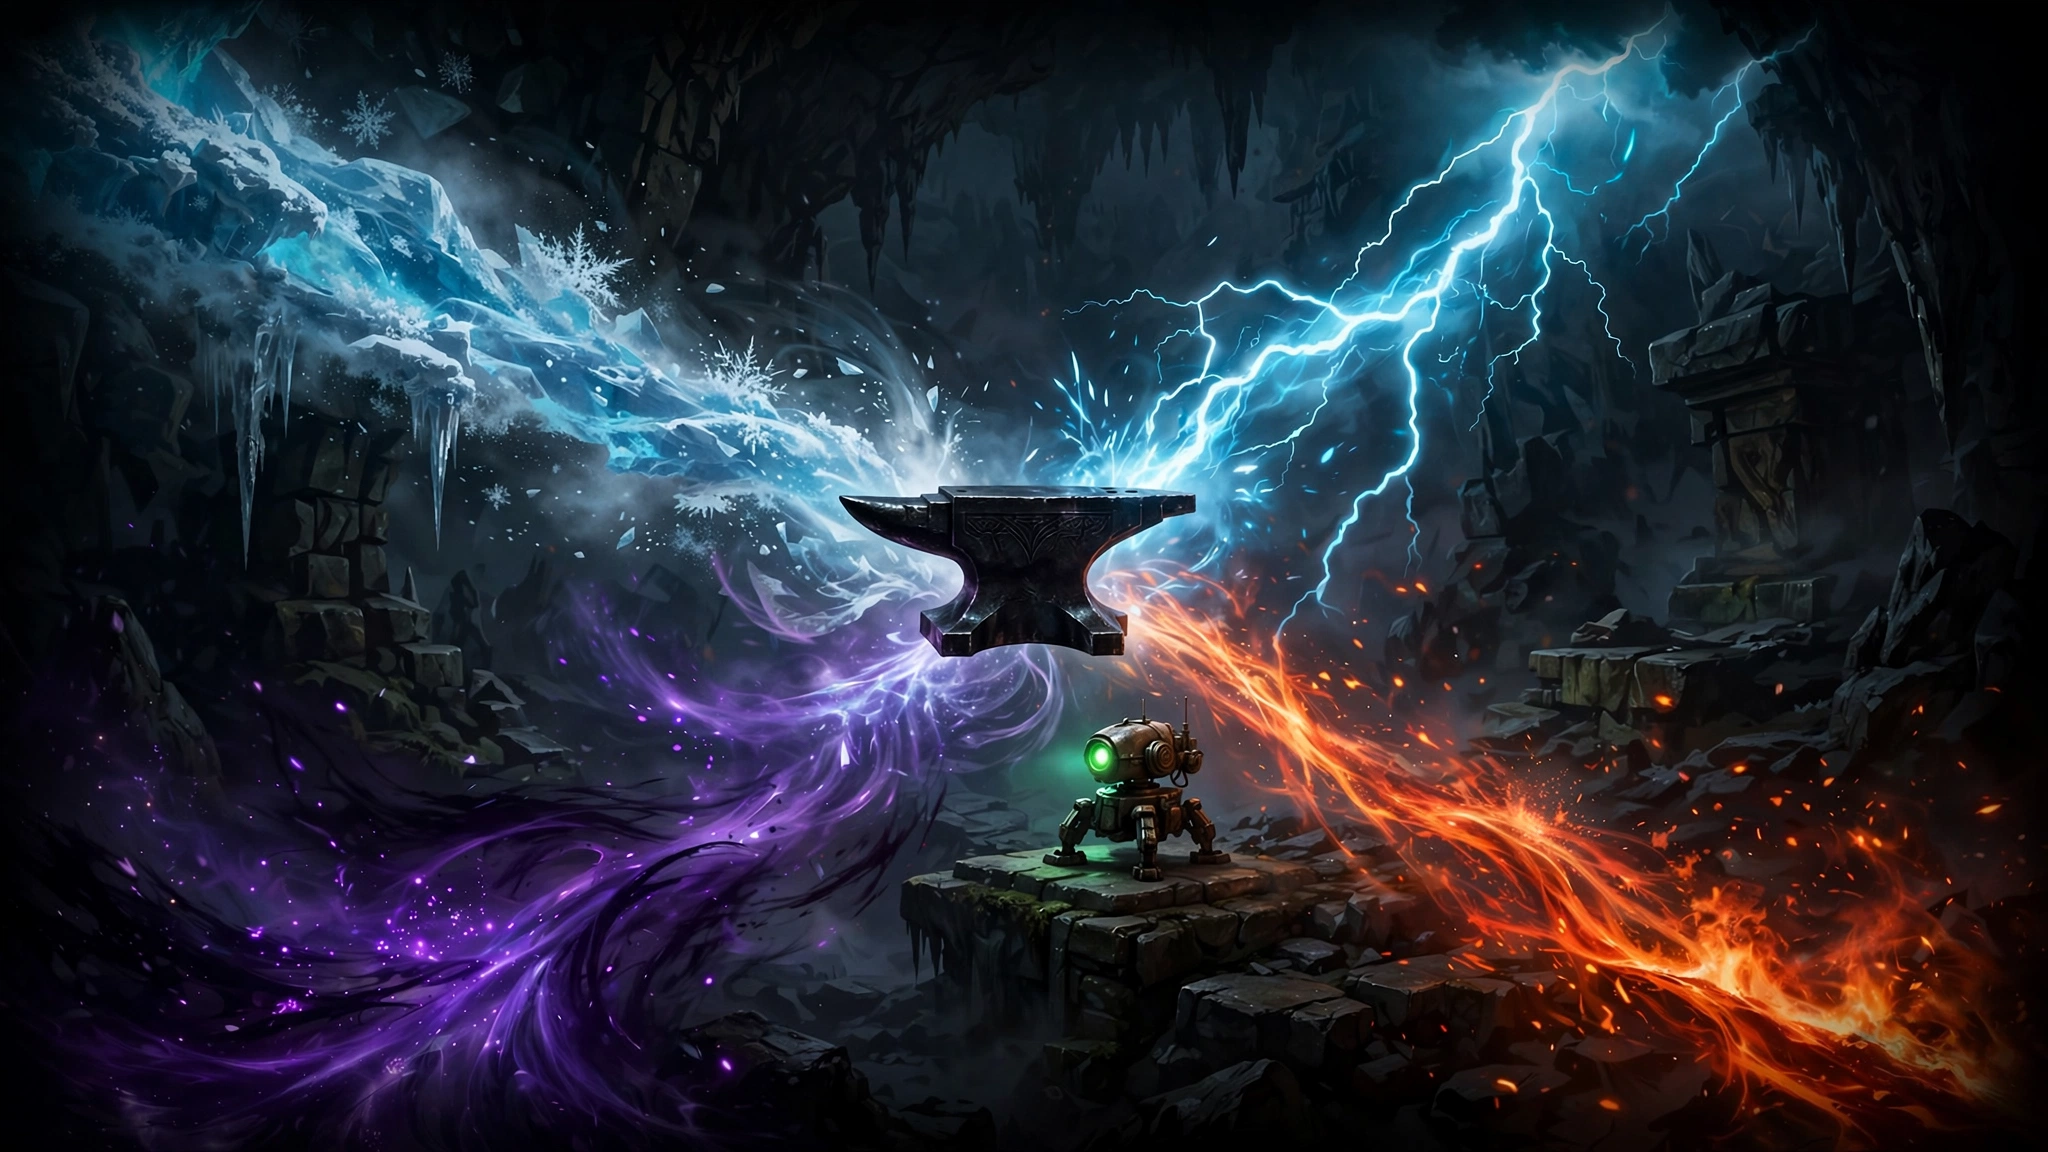
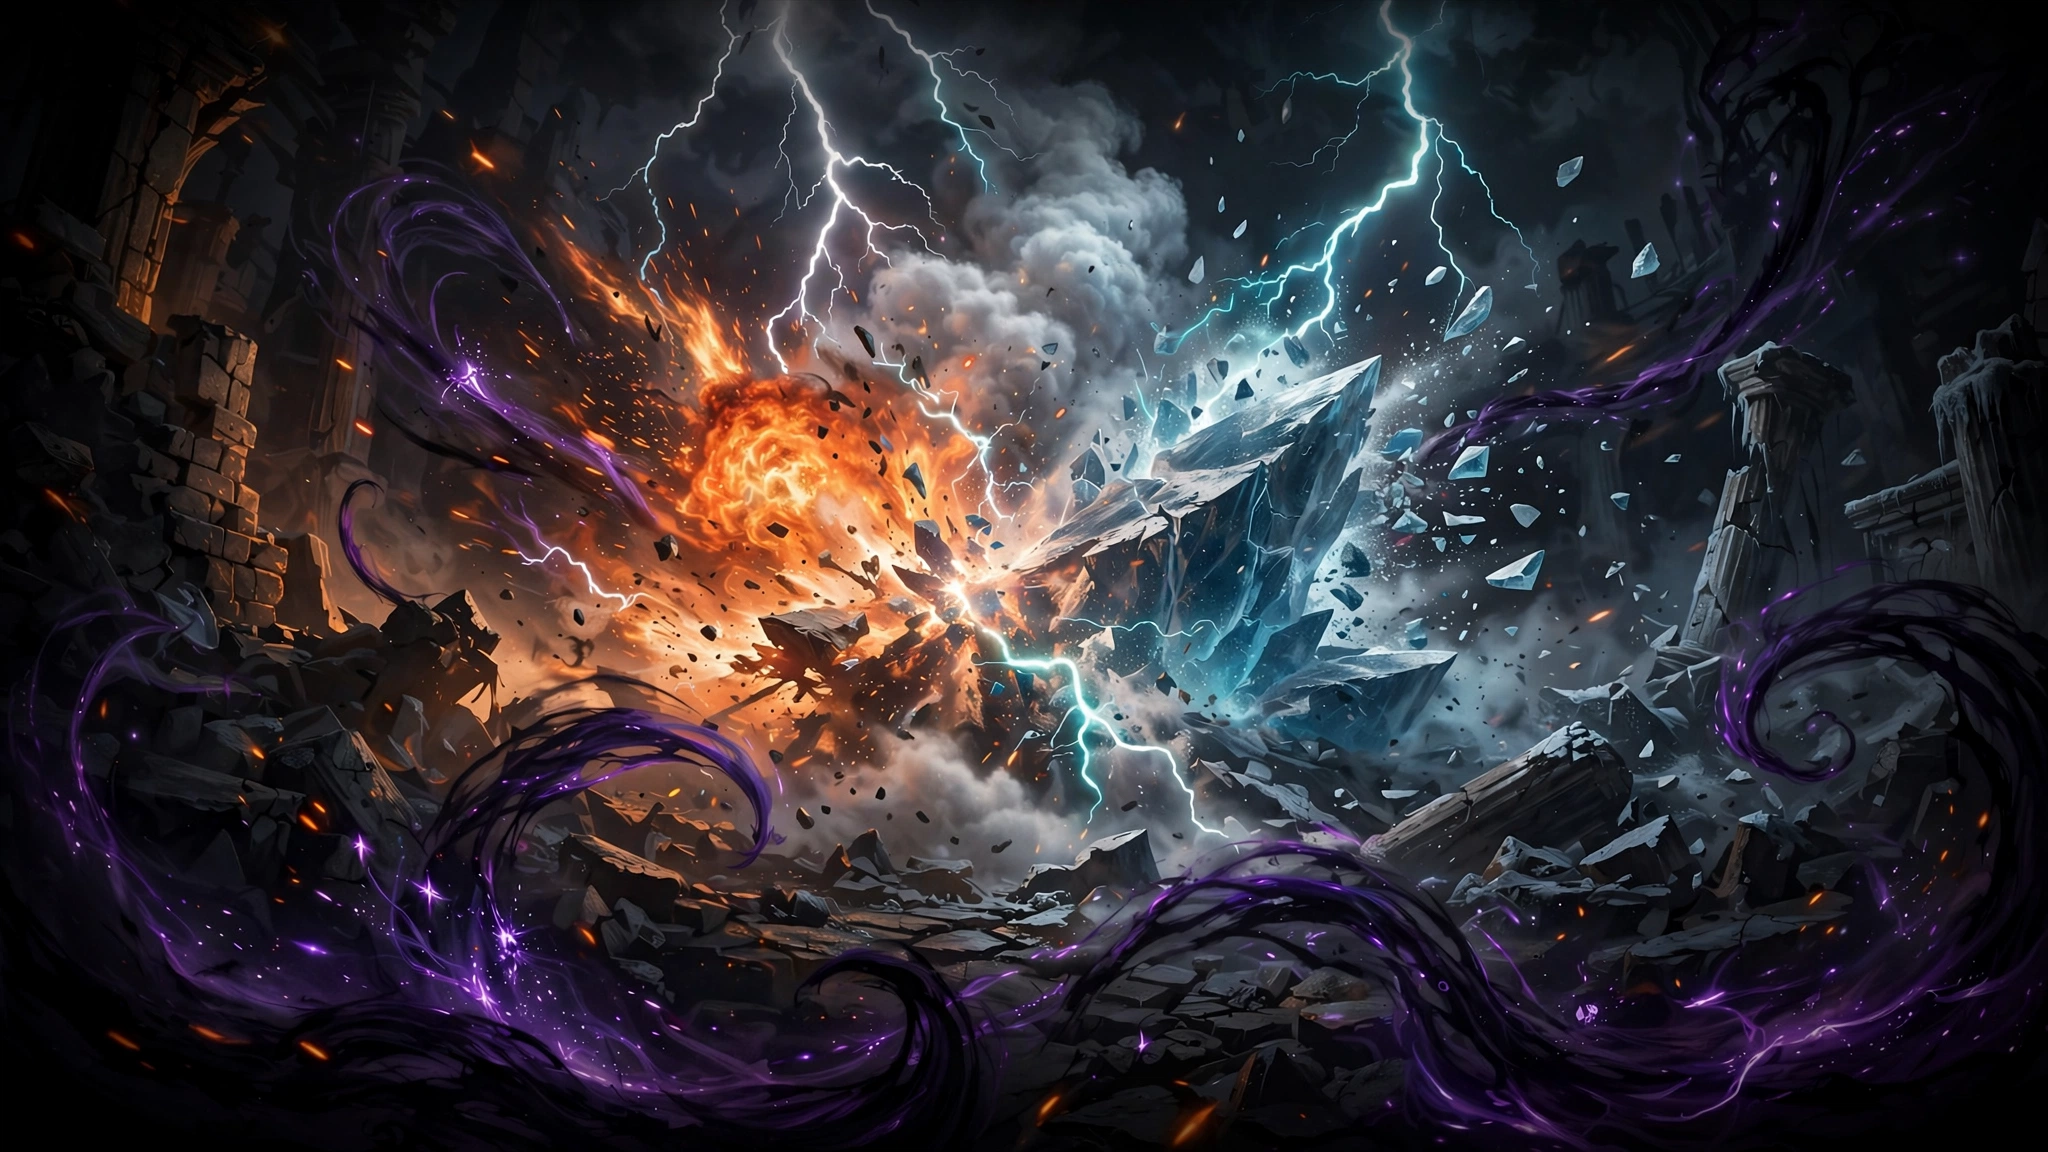
v0.9: elemental reactions, Engineer class
- Elemental reactions: Detonate (shock on burn, AoE), Melt (ice on burn, burst),
  Shatter (shock on slow, bonus + stun), Hex Spread (dark on afflicted, jumps to 2)
- Engineer class (unlock: Turret Master): free Sentry Turret, +50% turret dmg/uptime
- New achievement: Turret Master (25 turret kills in one run)
- Engineer sprite sheets, fresh elemental-cataclysm menu art

diff --git a/js/systems.js b/js/systems.js
@@ -175,11 +175,18 @@ function applyClassToPlayer(player, classData, weaponId){
   // v0.8.3: second wind + turret reset each run
   player.downed = false; player.downT = 0; player.secondWindUsed = false;
   player.turretCharges = 0; player.turretMax = 0;
+  player.turretDmgMult = 1; player.turretTimeMult = 1;
   player.items = [];
   player.damageMult = 1;
   player.dead = false;
   const baseW = weapons.find(w=>w.id===(weaponId || classData.weapon)) || weapons.find(w=>w.id===classData.weapon) || weapons[0];
   player.ownedWeapons = [createWeaponInstance(baseW, 'common')];
+  // v0.9 Engineer: starts with a Sentry Turret; turrets hit +50% harder and last +50% longer
+  if(classData.id === 'engineer'){
+    player.turretDmgMult = 1.5;
+    player.turretTimeMult = 1.5;
+    addItemToPlayer(player, items.find(it=>it.id==='sentry'), 'common');
+  }
   player.level = 1;
   player.xp = 0;
   player.xpNext = 60;
@@ -726,13 +733,14 @@ function turretDamageFor(p){
   const owned = (p.ownedWeapons || []).filter(Boolean);
   if(!owned.length) return 8;
   const avg = owned.reduce((s,w)=>s + (w.damage || 8), 0) / owned.length;
-  return Math.max(4, Math.round(avg * 0.6 * (p.damageMult || 1)));
+  return Math.max(4, Math.round(avg * 0.6 * (p.damageMult || 1) * (p.turretDmgMult || 1)));
 }
 function deployTurret(p){
   if(!p || p.dead || p.downed) return false;
   if((p.turretCharges || 0) <= 0){ return false; }
   p.turretCharges--;
-  turrets.push({x:p.x + 26, y:p.y + 10, t:25, fireT:0.3, ownerId:p.id, dmg:turretDamageFor(p), angle:0});
+  const tmax = 25 * (p.turretTimeMult || 1);
+  turrets.push({x:p.x + 26, y:p.y + 10, t:tmax, tmax, fireT:0.3, ownerId:p.id, dmg:turretDamageFor(p), angle:0});
   addParticle({x:p.x, y:p.y, life:0.4, r:18, color:'#6ef2b1'});
   floatingTexts.push({x:p.x, y:p.y-30, vx:0, vy:-30, life:1, text:'TURRET DEPLOYED', color:'#6ef2b1'});
   audio.beep(520, 0.1, 'square', 0.05);
@@ -754,10 +762,33 @@ function updateTurrets(dt){
     const elemental = null;
     bullets.push({ x:tu.x + Math.cos(tu.angle)*14, y:tu.y + Math.sin(tu.angle)*14, px:tu.x, py:tu.y, fresh:true,
       vx:Math.cos(tu.angle)*640, vy:Math.sin(tu.angle)*640, life:1.6, color:'#6ef2b1', damage:tu.dmg,
-      ownerId:tu.ownerId, crit:false, elemental, tiers: owner ? getElementalTiers(owner) : null,
+      ownerId:tu.ownerId, crit:false, elemental, tiers: owner ? getElementalTiers(owner) : null, turret:true,
       pierce:0, rehit:false, dist:0, homing:false, chain:0, slowTime:0, bounce:0, vortex:false, maxDist:700, explosive:false, splashR:0 });
     addParticle({x:tu.x + Math.cos(tu.angle)*18, y:tu.y + Math.sin(tu.angle)*18, life:0.12, r:8, color:'#6ef2b1'});
   }
+}
+
+// v0.9 elemental reactions: cross-element combos consume existing statuses for bonus effects.
+// Damage to blast victims is applied immediately; deaths are picked up by the normal
+// hp<=0 checks (avoids index hazards from splicing mid-loop). Kills credit ownerId.
+function reactionBlast(x, y, dmg, ownerId, color, skipEn){
+  const R = 120;
+  for(const en of enemies){
+    if(en === skipEn || en.hp <= 0) continue;
+    const dx = en.x - x, dy = en.y - y;
+    if(dx*dx + dy*dy < (R + en.r) * (R + en.r)){
+      const d = Math.sqrt(dx*dx + dy*dy) || 1;
+      const dealt = dmg * (1 - 0.6 * Math.min(1, d / (R + en.r)));
+      en.hp -= dealt;
+      en.lastHitBy = ownerId;
+      en.hitFlash = 0.1;
+      spawnBlood(en.x, en.y, en.color, 3);
+      applyKnockback(en, dx/d, dy/d, dealt);
+    }
+  }
+  addParticle({x, y, life:0.35, r:R*0.8, color});
+  addParticle({x, y, life:0.22, r:R*0.45, color:'#ffffff'});
+  addShake(6);
 }
 
 function hurtPlayer(p, raw){
@@ -1341,10 +1372,11 @@ function update(dt, t){ if(state.phase === 'menu' || state.phase === 'gameover' 
       addParticle({x:e.x, y:e.y, life:0.08, r:4, color:'#ff8c42'});
     }
     if(e.status.slow > 0){ e.status.slow -= dt; }
+    if(e.stun > 0){ e.stun -= dt; e.hitFlash = Math.max(e.hitFlash || 0, 0.05); } // v0.9 shatter stun
     // burn ticks and shock chains can drop hp to <= 0 without a bullet hit; kill the enemy here
     if(e.hp <= 0){ killEnemy(i, e.lastHitBy); continue; }
 
-    const slowMult = (e.status.slow > 0 ? 0.6 : 1) * (e.phased ? 1.6 : 1);
+    const slowMult = (e.status.slow > 0 ? 0.6 : 1) * (e.phased ? 1.6 : 1) * (e.stun > 0 ? 0 : 1);
     const ang = (e.charges && e.chargeState === 2 && e._chargeAng != null) ? e._chargeAng : Math.atan2(target.y - e.y, target.x - e.x);
     // dasher: periodic burst toward the player (elite: relentless)
     let dashMult = 1;
@@ -1451,7 +1483,7 @@ function update(dt, t){ if(state.phase === 'menu' || state.phase === 'gameover' 
     if(e.ranged && !e.dead){
       e.shootTimer = (e.shootTimer == null ? 1.2 + Math.random() : e.shootTimer) - dt;
       const sDist = Math.hypot(target.x - e.x, target.y - e.y);
-      if(e.shootTimer <= 0 && sDist < 560){
+      if(e.shootTimer <= 0 && sDist < 560 && !(e.stun > 0)){ // stunned enemies don't shoot
         e.shootTimer = 2.1 + Math.random() * 0.9;
         const sa = Math.atan2(target.y - e.y, target.x - e.x), spd = 330;
         enemyBullets.push({x:e.x, y:e.y, vx:Math.cos(sa)*spd, vy:Math.sin(sa)*spd, r:6,
@@ -1649,8 +1681,50 @@ function update(dt, t){ if(state.phase === 'menu' || state.phase === 'gameover' 
               }
             }
             addParticle({x:e.x,y:e.y,life:0.2, r:8, color:'#ffd166'}); const ownerId = b.ownerId;
+            // v0.9 elemental reactions: cross-element combos consume existing statuses
+            const rst = e.status || (e.status = {burn:0,burnDps:0,slow:0,shock:0,hex:0});
+            if(b.elemental === 'shock' && rst.burn > 0){
+              // DETONATE: lightning ignites the burn — point-blank + AoE blast, consumes burn
+              rst.burn = 0; rst.burnDps = 0;
+              e.hp -= b.damage * 1.5;
+              reactionBlast(e.x, e.y, b.damage * 1.5, b.ownerId, '#ffd166', e);
+              floatingTexts.push({x:e.x, y:e.y-16, vx:0, vy:-35, life:0.9, text:'DETONATE!', color:'#ffd166'});
+              audio.beep(90, 0.25, 'sawtooth', 0.08);
+            } else if(b.elemental === 'ice' && rst.burn > 0){
+              // MELT: flash-freeze the burn — burst damage, consumes burn
+              rst.burn = 0; rst.burnDps = 0;
+              e.hp -= b.damage * 1.2;
+              floatingTexts.push({x:e.x, y:e.y-16, vx:0, vy:-35, life:0.9, text:'MELT!', color:'#9be8ff'});
+              for(let k=0;k<10;k++) addParticle({x:e.x+rand(-10,10), y:e.y+rand(-10,10), vx:rand(-120,120), vy:rand(-120,120), life:0.4, r:4, color:'#cfeaff'});
+              addShake(4);
+            } else if(b.elemental === 'shock' && rst.slow > 0){
+              // SHATTER: frozen-solid enemies shatter — bonus damage + stun, consumes slow
+              rst.slow = 0;
+              e.hp -= b.damage * 0.8;
+              e.stun = Math.max(e.stun || 0, 0.9);
+              floatingTexts.push({x:e.x, y:e.y-16, vx:0, vy:-35, life:0.9, text:'SHATTER!', color:'#c9b6ff'});
+              for(let k=0;k<12;k++) addParticle({x:e.x+rand(-12,12), y:e.y+rand(-12,12), vx:rand(-160,160), vy:rand(-160,160), life:0.5, r:3, color:'#a8d0e8'});
+              addShake(4); audio.beep(400, 0.15, 'square', 0.06);
+            } else if(b.elemental === 'dark' && (rst.burn > 0 || rst.slow > 0 || rst.hex > 0)){
+              // HEX SPREAD: dark magic feeds on affliction — hex jumps to 2 nearby enemies
+              let spread = 0;
+              for(const ne of enemies){
+                if(spread >= 2 || ne === e || ne.hp <= 0) continue;
+                const sdx = ne.x - e.x, sdy = ne.y - e.y;
+                if(sdx*sdx + sdy*sdy < 170*170){
+                  if(!ne.status) ne.status = {burn:0,burnDps:0,slow:0,shock:0,hex:0};
+                  ne.status.hex = Math.max(ne.status.hex || 0, 4);
+                  ne.lastHitBy = b.ownerId;
+                  addParticle({x:ne.x, y:ne.y, life:0.3, r:10, color:'#a855f7'});
+                  spread++;
+                }
+              }
+              if(spread > 0) floatingTexts.push({x:e.x, y:e.y-16, vx:0, vy:-35, life:0.9, text:'HEX SPREAD!', color:'#a855f7'});
+            }
             if(b.explosive){ i -= detonate(b, b.x, b.y, e, i, ownerId); bullets.splice(j,1); }
             else if(b.pierce > 0){ b.pierce--; if(b.rehit) b.lastHit = e; else (b.hits || (b.hits = [])).push(e); } else { bullets.splice(j,1); } if(e.hp <= 0){ // die
+            // v0.9: turret kills feed the turret_master achievement (unlocks Engineer)
+            if(b.turret){ runStats.turretKills = (runStats.turretKills || 0) + 1; if(runStats.turretKills >= 25) unlockAchievement('turret_master'); }
             // reward to owner if available, else nearest player
             killEnemy(i, ownerId); killed = true; break; } }
     }
@@ -1661,7 +1735,7 @@ function update(dt, t){ if(state.phase === 'menu' || state.phase === 'gameover' 
       if(p.dead) continue;
       if(p.iFrames > 0) continue;
       const d = Math.hypot(p.x - e.x, p.y - e.y);
-      if(d < p.r + e.r && !e.phased){
+      if(d < p.r + e.r && !e.phased && !(e.stun > 0)){ // stunned enemies don't deal contact damage
         p.hp -= Math.max(1, (e.dmg - p.armor) * dt);
         runStats.tookDamage = true;
         // elite spitter (Plaguewing): venomous touch slows the player

diff --git a/js/data.js b/js/data.js
@@ -339,6 +339,7 @@ const classArchetypes = [
   {base:'Skylark', weapon:'pistol', mods:{hpMult:0.9, speed:285, accuracy:1.1, reloadSpeed:0.95}, tags:'Very fast', pool:["smg", "pistol", "sprayer", "plasma", "crossbow", "hornet", "ricochet", "glacier"], unlock:{achievement:'medic'}},
   {base:'Nightreap', weapon:'shotgun', mods:{hpMult:1.05, speed:225, lifesteal:0.07, damageBonus:1}, tags:'Life steal', pool:["shotgun", "blade", "katana", "flame", "mine", "emberwand"], unlock:{achievement:'unique_find'}},
   {base:'Glassjaw', weapon:'rifle', mods:{hpMult:0.01, speed:300, accuracy:1.3, reloadSpeed:0.8, damageBonus:15, luck:3}, tags:'1 HP. Glass cannon.', pool:["rail", "sniper", "rifle", "dmr", "heavy", "rpg"], unlock:{nightmare:true}},
+  {base:'Engineer', weapon:'smg', mods:{hpMult:1.05, speed:225, armor:3, reloadSpeed:0.95}, tags:'Turret specialist', pool:["smg", "pistol", "rifle", "sprayer", "plasma", "tesla", "arc", "hornet"], unlock:{achievement:'turret_master'}},
 ];
 
 const classes = classArchetypes.map(a=>({
@@ -412,6 +413,7 @@ const ACHIEVEMENTS = [
   {id:'second_wind', name:'Second Wind', desc:'Cheat death: get a kill while downed'},
   {id:'elemental_set', name:'Elemental Mastery', desc:'Equip 3 weapons of the same element'},
   {id:'mk3', name:'Master Gunsmith', desc:'Upgrade a weapon to MK III'},
+  {id:'turret_master', name:'Turret Master', desc:'Get 25 turret kills in one run'},
 ];
 
 // ---- Maps: 3 full maps (unique enemies + difficulty), 8 mini-map background themes ----

diff --git a/fx.js b/fx.js
@@ -36,7 +36,7 @@
   };
   // v0.6.0 class sprites: one sheet per class per view. P2 uses the same sprite as P1
   // (the co-op ring distinguishes players); p1_/p2_ sheets stay as fallback.
-  for(const cid of ['ironheart','foxglove','gravelord','scrapjack','voltlade','circuitry','bulwark','redline','skylark','nightreap','glassjaw']){
+  for(const cid of ['ironheart','foxglove','gravelord','scrapjack','voltlade','circuitry','bulwark','redline','skylark','nightreap','glassjaw','engineer']){
     for(const v of ['down','up','side']){
       SHEETS['cls_'+cid+'_'+v] = {src:'assets/sprites/players/player_'+cid+'_'+v+'.png', fw:16, fh:21, n:4, ax:8, ay:10.5};
     }

diff --git a/js/render.js b/js/render.js
@@ -899,7 +899,7 @@ function drawTurrets(){
     ctx.fillStyle = '#6ef2b1';
     ctx.beginPath(); ctx.arc(tu.x, tu.y, 6, 0, Math.PI*2); ctx.fill();
     ctx.strokeStyle = 'rgba(110,242,177,0.6)'; ctx.lineWidth = 2;
-    ctx.beginPath(); ctx.arc(tu.x, tu.y, 17, -Math.PI/2, -Math.PI/2 + Math.PI*2*Math.max(0, tu.t/25)); ctx.stroke();
+    ctx.beginPath(); ctx.arc(tu.x, tu.y, 17, -Math.PI/2, -Math.PI/2 + Math.PI*2*Math.max(0, Math.min(1, tu.t/(tu.tmax || 25)))); ctx.stroke();
     ctx.restore();
   }
 }

diff --git a/js/state.js b/js/state.js
@@ -111,6 +111,7 @@ function checkAchievements(){
 }
 function resetRunStats(){
   runStats.kills = 0; runStats.spent = 0; runStats.revives = 0; runStats.tookDamage = false;
+  runStats.turretKills = 0;
 }
 
 // Players (support player 1 and optional player 2)

diff --git a/README.md b/README.md
@@ -1,31 +1,31 @@
-# Pressure Point — v0.8.3
+# Pressure Point — v0.9
 
 **[Play online](https://chickenthedev.github.io/Pressure-Point/)** — no download, full lighting and effects.
 
 A polished, local Brotato-inspired top-down arena shooter built with HTML5 Canvas and JavaScript.
 
-## Latest Changes (v0.8.3 — Turrets, second wind, elemental sets, upgrades)
-- **Elemental set bonuses**: 2 same-element weapons = tier I, 3+ = tier II. Inferno Set (+25% burn DPS/tier), Glacier Set (+1s slow/tier, brittle at II), Storm Set (+1 chain/tier), Hex Set (+2s hex/tier, 35% amp at II).
-- **Weapon upgrades**: new Arsenal Upgrades shop section — MK II (+30% dmg) and MK III (+25% more, +1 pierce) per weapon.
+## Latest Changes (v0.9 — Elemental reactions, Engineer class)
+- **Elemental reactions**: cross-element combos consume statuses — **Detonate** (shock on burning: AoE blast), **Melt** (ice on burning: burst), **Shatter** (shock on slowed: bonus damage + stun), **Hex Spread** (dark on afflicted: hex jumps to 2 nearby enemies).
+- **Engineer class** (unlock: Turret Master achievement): starts with a free Sentry Turret, turrets +50% damage and +50% uptime.
+- **New achievement**: Turret Master (25 turret kills in one run). Fresh menu art (elemental cataclysm).
+
+## Previous (v0.8.3 — Turrets, second wind, elemental sets, upgrades)
+- **Elemental set bonuses**: 2 same-element weapons = tier I, 3+ = tier II (Inferno/Glacier/Storm/Hex sets, HUD badges).
+- **Weapon upgrades**: Arsenal Upgrades shop section — MK II (+30% dmg) and MK III (+25% more, +1 pierce).
 - **Second Wind** (solo): lethal damage downs you — kill within 6s to revive at 40% HP, once per run.
-- **Sentry Turret** item (epic): press T to deploy an auto-turret (25s, 60% of your damage, 1 charge/wave).
-- **3 new achievements**: Second Wind, Elemental Mastery, Master Gunsmith. Fresh menu art (elemental forge).
+- **Sentry Turret** item (epic): press T to deploy (25s, 60% of your damage, 1 charge/wave).
 
 ## Previous (v0.8.2 — Parachute, debt, dark magic)
 - **Parachute drop-in** on wave 1, **loot debt** (recover last wave's loot before new money flows).
 - **Wildfire Rounds** item, **5 new weapons** (Ember Wand, Glacier Lance, Storm Rod, Void Tome, Soul Siphon).
 - **Black magic** element (hex) — arcane items now boost it.
 
-## Previous (v0.8.1 — Cut pickups, more mechanics)
-- **Adrenaline** low-HP berserk mode, **Ricochet SMG** (bouncing bullets), **Vortex Cannon** (gravity wells).
-- **2 new enemies**: Phantom (phases untargetable), Leaper (AoE slam). Pickups removed.
-
 
 
 
 ## What's Included
-- **11 classes**: 9 unlock via achievements, Glassjaw (1 HP) unlocks by beating Nightmare.
-- **Achievements**: 19 unlockable, persisted across runs.
+- **12 classes**: 10 unlock via achievements, Glassjaw (1 HP) unlocks by beating Nightmare.
+- **Achievements**: 20 unlockable, persisted across runs.
 - **Elite mini-bosses**: 9 named elites with unique traits, HP bars, and bonus loot.
 - **Meta progression**: earn Essence from runs; spend on 6 permanent upgrades.
 - **9 enemy types**: Runner, Spitter, Bruiser, Burster, Splitter, Bulwark, Dasher, Aegis, Nester.

diff --git a/CHANGELOG.md b/CHANGELOG.md
@@ -1,3 +1,9 @@
+## v0.9 — Elemental reactions, Engineer class
+- **Elemental reactions**: cross-element combos consume existing statuses — **Detonate** (shock on burning: AoE blast), **Melt** (ice on burning: burst damage), **Shatter** (shock on slowed: bonus damage + 0.9s stun), **Hex Spread** (dark on any afflicted enemy: hex jumps to 2 nearby enemies).
+- **Engineer class** (new, unlocks via Turret Master): turret specialist — starts every run with a free Sentry Turret, turrets deal +50% damage and last +50% longer.
+- **New achievement**: Turret Master (25 turret kills in one run).
+- **New menu art**: elemental cataclysm — fire detonating on ice, lightning, void tendrils (fresh art per the every-update rule).
+
 ## v0.8.3 — Turrets, second wind, elemental sets, weapon upgrades
 - **Elemental set bonuses**: equipping 2 weapons of one element unlocks tier I, 3+ unlocks tier II — Inferno Set (+25% burn DPS/tier, +1s burn at II), Glacier Set (+1s slow/tier, slowed enemies take +10% at II), Storm Set (+1 chain jump/tier), Hex Set (+2s hex/tier, hex amp 20%→35% at II). HUD shows your active sets.
 - **Weapon upgrades**: the shop now has an Arsenal Upgrades section — take any weapon to MK II (+30% damage, +8% fire rate) and MK III (+25% more damage, +1 pierce).
